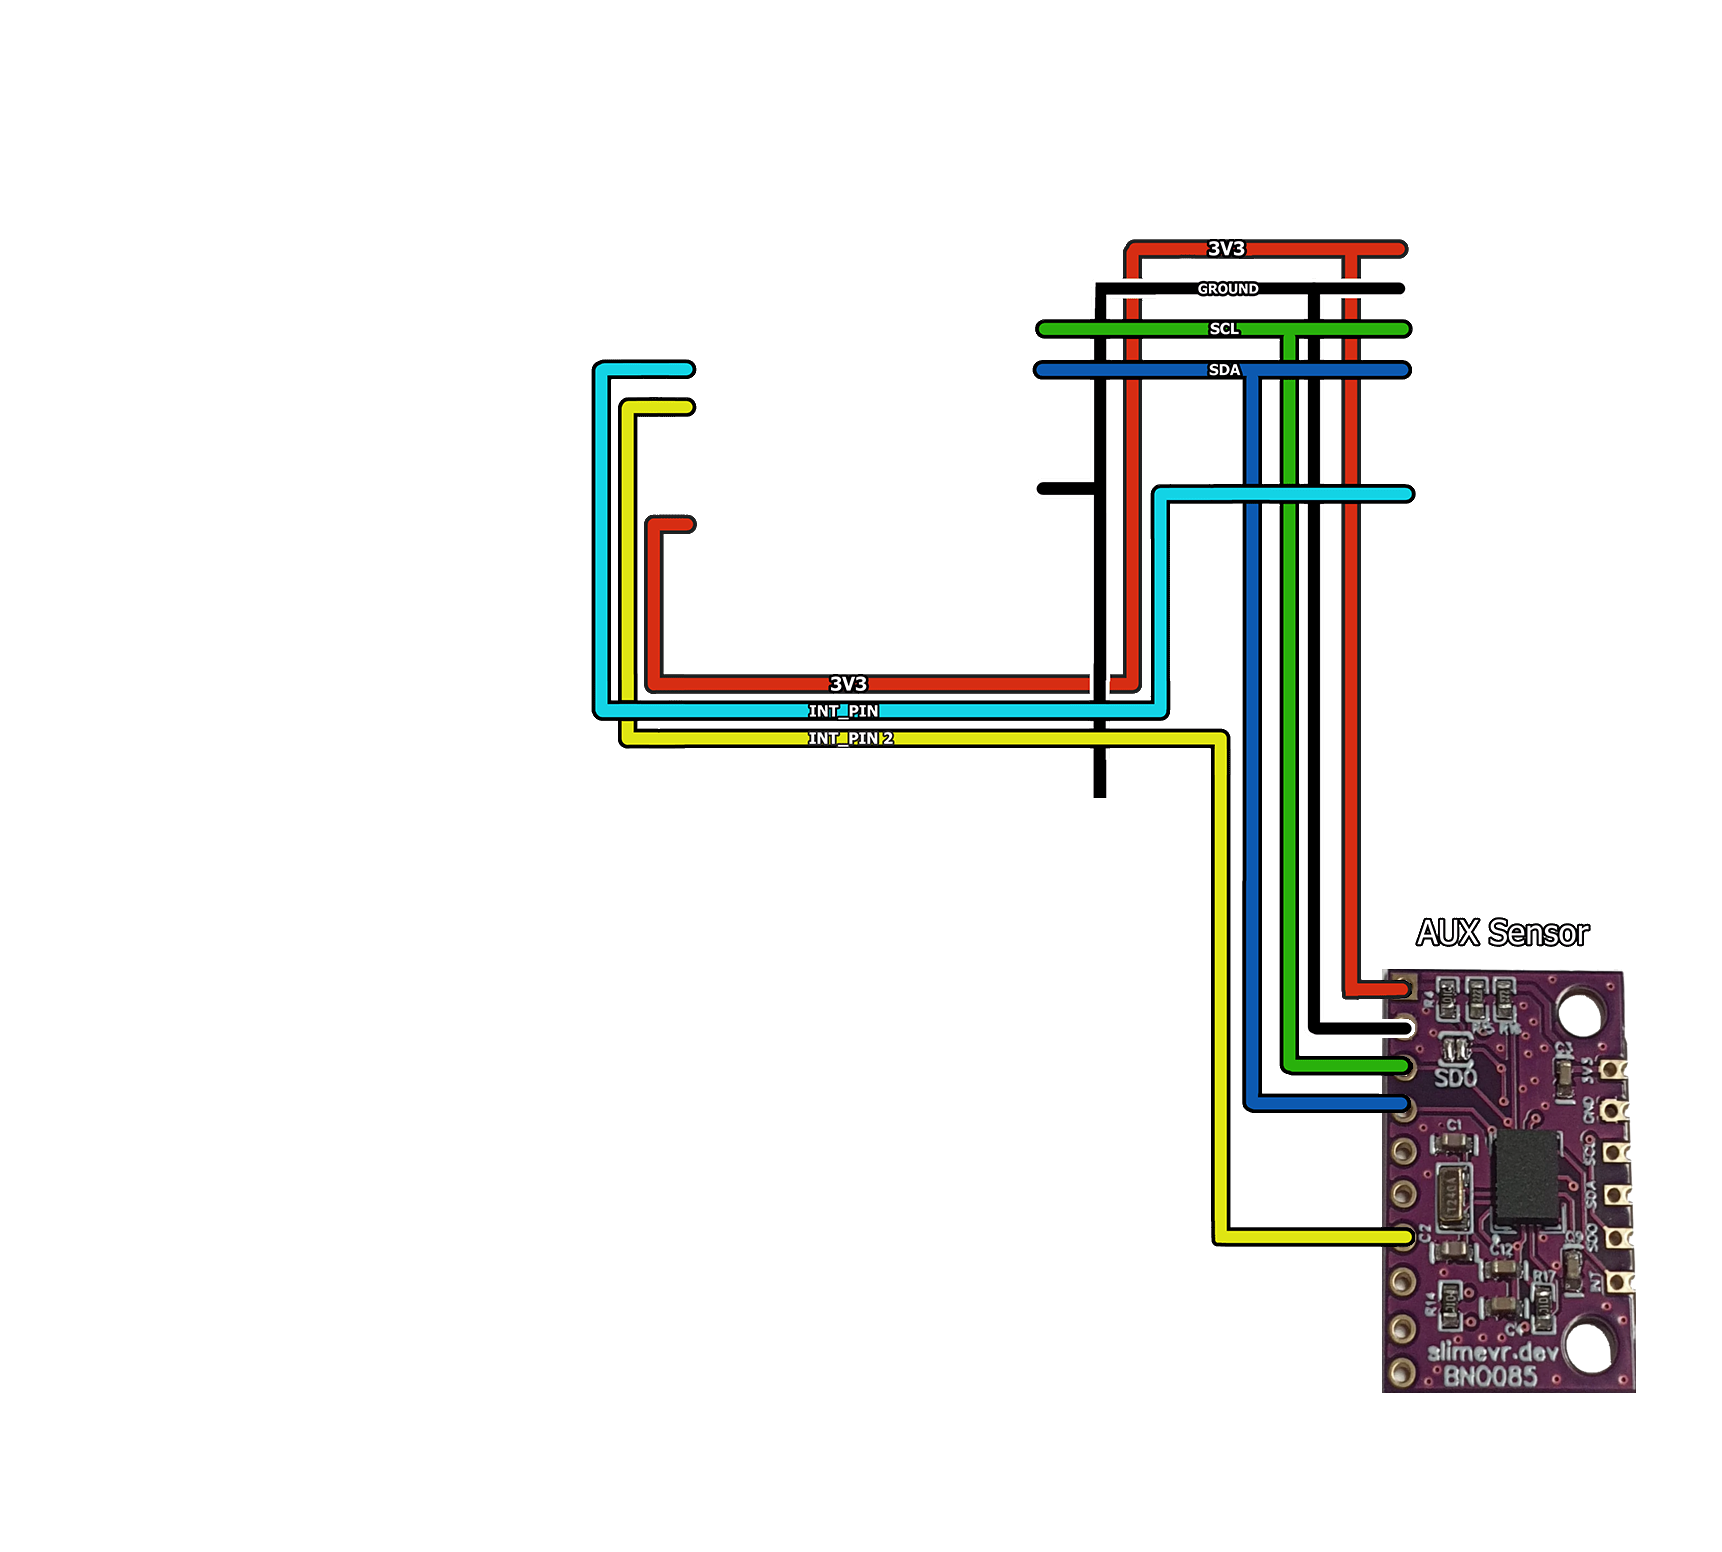
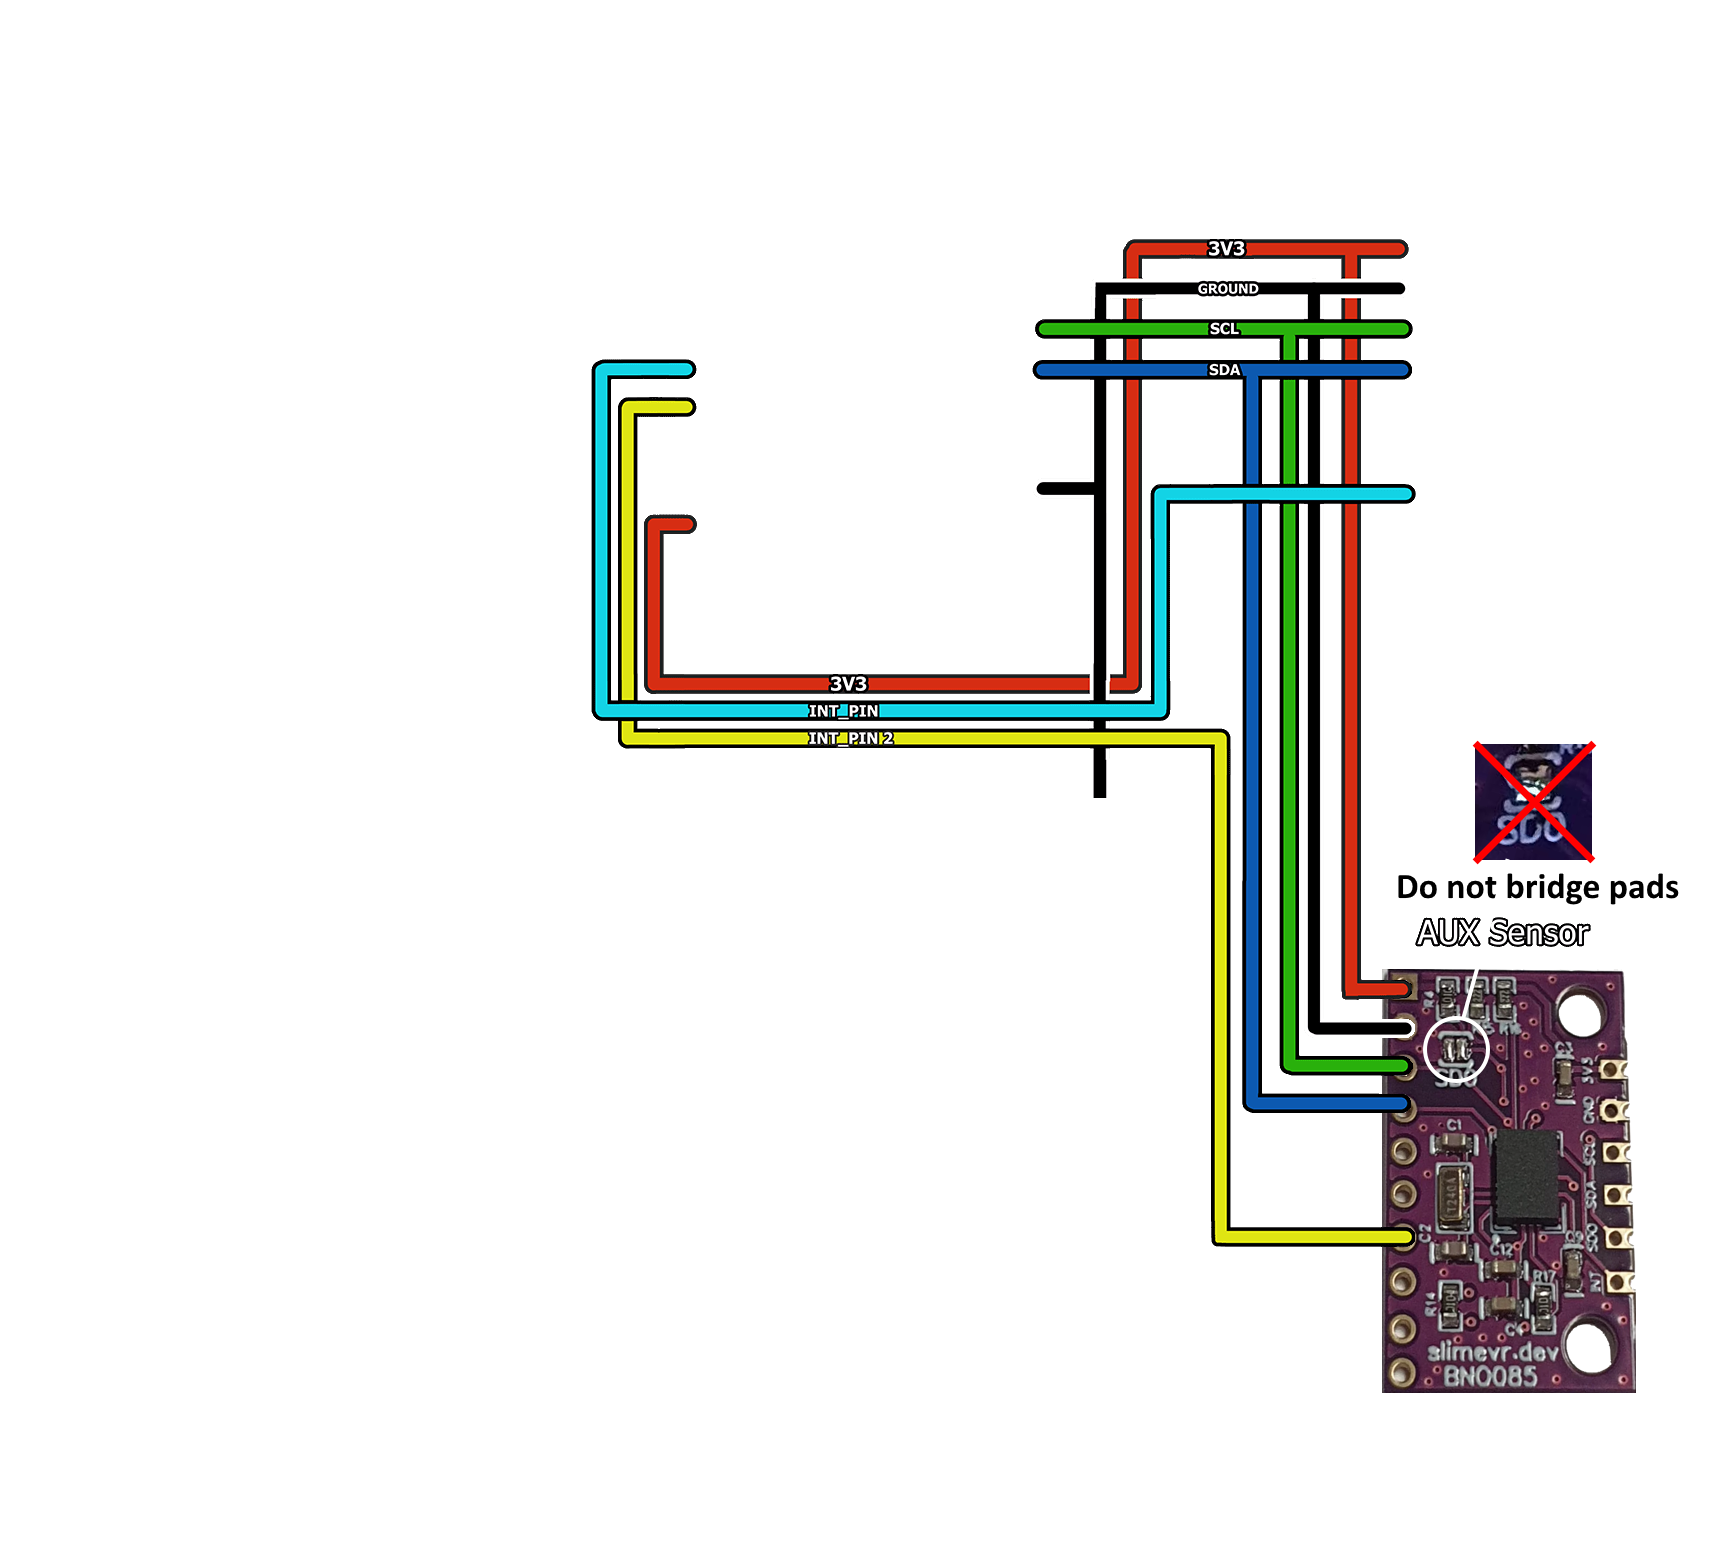
Minor fixes (#273)
* Update BMI270 price in components guide

* Update community case list with BMI270 support (tested)

* Remove Frozen v1 design at the creator's request

* Clarify to not bridge SD0 for aux BNO/BMI270

Changed region(s): [[0.8002, 0.4639, 0.9849, 0.5876], [0.831, 0.6495, 0.8618, 0.7113]]

diff --git a/src/assets/js/diy.js b/src/assets/js/diy.js
@@ -28,8 +28,8 @@
                 {
                     'name': 'BMI270',
                     'amount': (set) => set,
-                    'cost': 3.81,
-                    'costAll': (set) => set * 3.81 + 5.45,
+                    'cost': 2.71,
+                    'costAll': (set) => set * 2.71 + 5.45,
                     'links': '<a href="https://store.kouno.xyz/products/bmi270-breakout-board">KOUNOLAB BMI270</a>, <b>experimental</b>.'
                 },
                 {

diff --git a/src/diy/cases.md b/src/diy/cases.md
@@ -94,21 +94,6 @@ The SlimeVR community has built a huge number of cases for style, internals and 
 
 [Github](https://github.com/Quantum-Red/QuantumSlimes/releases/tag/V4)
 
-## Frozen Slimes V1
-*Design by artemis/frosty*
-
-<img class="caseImage"
-     src="https://user-images.githubusercontent.com/98719680/181609394-5cf60c34-76c2-4943-aac9-5806e695c1ea.jpg"
-     alt="Case">
-
-* Wemos D1 Mini.
-* MPU9250 or MPU6050.
-* 18650 LiIon Battery.
-* SS22F32 Switch.
-* Frozen Slimes PCB Recommended.
-
-[Github](https://github.com/frosty6742/frozen-slimes)
-
 ## Frozen Slimes V2
 *Design by artemis/frosty*
 
@@ -117,7 +102,7 @@ The SlimeVR community has built a huge number of cases for style, internals and 
      alt="PCB"
      width="600" height="400">
 
-* Supports MPU6050, BMI160s, and BNO085s all on one pcb!
+* Supports MPU6050s, BMI160s, BMI270s, and BNO085s all on one pcb!
 * 18650 LiIon Battery.
 
 [Github](https://github.com/frosty6742/frozen-slimes-v2#frozen-slimes-v2)
@@ -159,7 +144,7 @@ The SlimeVR community has built a huge number of cases for style, internals and 
 
 * D1 Mini ESP microcontroller.
 * DPDT 2P2T Power Switch.
-* BMI160.
+* BMI160 or BMI270.
 * TP4056 USB-C charging module.
 * 804040 1200mAh lithium ion cell.
 
@@ -176,7 +161,7 @@ Modified, refined and with a few feature additions by Rosdayle
 
 * D1 Mini ESP microcontroller.
 * DPDT 2P2T Power Switch.
-* BMI160.
+* BMI160 or BMI270.
 * TP4056 USB-C charging module.
 * 603450 1100mah lithium-ion cell or Smaller than 51x34x6mm.
 * Go pro style chest harness.
